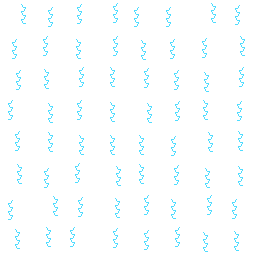
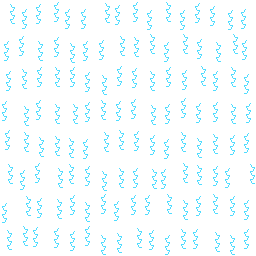
feat(patrones): brillos visibles en especies claras, rayos más densos y documentación

diff --git a/shared/scene/src/bake/patternFx.ts b/shared/scene/src/bake/patternFx.ts
@@ -90,6 +90,8 @@ export interface FxOptions {
   shiny?: boolean;
   /** Milisegundos desde que se muestra la mascota. */
   time: number;
+  /** Primario claro (`isLightPrimary`): los brillos sutiles van en azul, porque el blanco no se vería. */
+  light?: boolean;
   pixelSize?: number;
 }
 
@@ -105,28 +107,31 @@ type Px = [number, number, number, number];
 const NONE: Px = [0, 0, 0, 0];
 
 /** Color (0–255) y alfa (0–1) que el efecto del patrón pone sobre un píxel. */
-function patternPixel(fx: PatternFx, kind: number, u: number, v: number, lx: number, ly: number, t: number): Px {
+function patternPixel(fx: PatternFx, kind: number, u: number, v: number, lx: number, ly: number, t: number, light: boolean): Px {
   if (kind === FX_BODY) return NONE;
   const glint = kind === FX_GLINT;
+  // Color de los brillos: blanco sobre cuerpos oscuros, azul eléctrico sobre los claros.
+  const [sr, sg, sb] = light ? [70, 170, 255] : [255, 255, 255];
+  const boost = light ? 1.5 : 1;
   switch (fx) {
     // Superraro. Un brillo cruza las escamas en diagonal cada cinco segundos.
     case 'sheen': {
       const p = mod(t, 5200) / 1100;
       if (p > 1) return NONE;
       const d = Math.abs(lx + ly - (p * 150 - 12));
-      return d < 4 ? [255, 255, 255, glint ? 0.7 : 0.35] : NONE;
+      return d < 4 ? [sr, sg, sb, Math.min(1, (glint ? 0.7 : 0.35) * boost)] : NONE;
     }
     // Superraro. Cada vértice del cristal centellea por su cuenta, de uno en uno.
     case 'twinkle': {
       if (!glint) return NONE;
       const q = mod(t + hash(u, v, 1) * 3600, 3600);
       if (q > 360) return NONE;
-      return [255, 255, 255, 0.9 * (1 - Math.abs(q - 180) / 180)];
+      return [sr, sg, sb, 0.9 * (1 - Math.abs(q - 180) / 180)];
     }
     // Superraro. Un pulso de luz recorre las pistas del circuito.
     case 'flow': {
       const m = mod(u + v * 3 - t / 45, 48);
-      if (m < 5) return [190, 255, 255, (1 - m / 5) * (glint ? 0.9 : 0.6)];
+      if (m < 5) return light ? [40, 150, 255, Math.min(1, (1 - m / 5) * (glint ? 1 : 0.85))] : [190, 255, 255, (1 - m / 5) * (glint ? 0.9 : 0.6)];
       return NONE;
     }
     // Legendario. Las estrellas titilan con fuerza y la nebulosa va del azul al magenta.
@@ -134,25 +139,25 @@ function patternPixel(fx: PatternFx, kind: number, u: number, v: number, lx: num
       if (glint) {
         const period = 1400 + hash(u, v, 2) * 1200;
         const a = 0.5 + 0.5 * Math.sin((t / period) * Math.PI * 2 + hash(u, v, 3) * 6.28);
-        return [255, 255, 255, a];
+        return [sr, sg, sb, a];
       }
       const hue = 250 + 60 * Math.sin(t / 2600 + (u + v) / 20);
-      const [r, g, b] = hslToRgb(hue, 0.85, 0.66);
-      return [r, g, b, 0.5];
+      const [r, g, b] = hslToRgb(hue, 0.85, light ? 0.5 : 0.66);
+      return [r, g, b, light ? 0.7 : 0.5];
     }
     // Legendario. Cada rayo descarga por separado; su nube se enciende con él.
     case 'flash': {
-      const q = mod(t + hash(u >> 5, v >> 5, 4) * 2600, 2600);
+      const q = mod(t + hash(u >> 4, v >> 5, 4) * 2600, 2600);
       const power = q < 120 ? 1 : q < 240 ? 0 : q < 330 ? 0.8 : q < 800 ? 0.5 * (1 - (q - 330) / 470) : 0;
-      if (glint) return [255, 250, 190, Math.max(power, 0.3 + 0.1 * Math.sin(t / 300 + u))];
-      return power === 0 ? NONE : [235, 235, 255, power * 0.45];
+      if (glint) return light ? [255, 170, 0, Math.max(power, 0.5)] : [255, 250, 190, Math.max(power, 0.3 + 0.1 * Math.sin(t / 300 + u))];
+      return power === 0 ? NONE : light ? [90, 100, 170, power * 0.6] : [235, 235, 255, power * 0.45];
     }
     // Mítico. Las cintas cambian de color sin parar y una ola de luz sube por ellas.
     case 'aurora': {
       const hue = 150 + 70 * Math.sin(v * 0.12 + t / 700) + u * 2 + t / 30;
       const wave = 0.5 + 0.5 * Math.sin(v * 0.3 - t / 240);
       if (glint) return [255, 255, 255, 0.35 + 0.65 * wave];
-      const [r, g, b] = hslToRgb(mod(hue, 360), 0.9, 0.62 + 0.12 * wave);
+      const [r, g, b] = hslToRgb(mod(hue, 360), 0.9, (light ? 0.5 : 0.62) + 0.12 * wave);
       return [r, g, b, 0.6 + 0.3 * wave];
     }
   }
@@ -191,7 +196,7 @@ export function renderFx(map: ArrayLike<number>, sheetWidth: number, frame: FxFr
         if (map[m + 3] === 0) continue;
         const lx = (x / cell) | 0;
         const ly = (y / cell) | 0;
-        let [r, g, b, a] = fx ? patternPixel(fx, map[m + 2], map[m], map[m + 1], lx, ly, t) : NONE;
+        let [r, g, b, a] = fx ? patternPixel(fx, map[m + 2], map[m], map[m + 1], lx, ly, t, opts.light === true) : NONE;
         if (sweep <= 1) {
           // Barrido del shiny: una banda ancha irisada y otra fina detrás, sobre toda la silueta.
           const d = lx + ly - (sweep * 150 - 12);

diff --git a/shared/scene/src/pet/PetSprite.ts b/shared/scene/src/pet/PetSprite.ts
@@ -56,7 +56,7 @@ export class PetSprite extends Container {
   private readonly fxSprite = new Sprite();
   private readonly fxCanvas = document.createElement('canvas');
   private fxTexture: Texture | null = null;
-  private fx: { map: Uint8ClampedArray; width: number; fx: PatternFx | null; shiny: boolean } | null = null;
+  private fx: { map: Uint8ClampedArray; width: number; fx: PatternFx | null; shiny: boolean; light: boolean } | null = null;
   private fxTime = 0;
   private fxDrawn = '';
   private fxBuf: Uint8ClampedArray | undefined;
@@ -94,8 +94,8 @@ export class PetSprite extends Container {
    * Efectos animados de la hoja actual: `map` es su mapa de efectos (`bakeFxMap`). Sin efecto de
    * patrón ni shiny, o con movimiento reducido, la capa no se pinta.
    */
-  setFx(map: Uint8ClampedArray | null, width: number, fx: PatternFx | null, shiny: boolean): void {
-    this.fx = map && (fx || shiny) && !this.opts.reducedMotion ? { map, width, fx, shiny } : null;
+  setFx(map: Uint8ClampedArray | null, width: number, fx: PatternFx | null, shiny: boolean, light = false): void {
+    this.fx = map && (fx || shiny) && !this.opts.reducedMotion ? { map, width, fx, shiny, light } : null;
     this.fxSprite.visible = false;
     this.fxDrawn = '';
     this.drawFx();
@@ -111,7 +111,7 @@ export class PetSprite extends Container {
       this.fxCanvas.width = rect.w;
       this.fxCanvas.height = rect.h;
     }
-    this.fxBuf = renderFx(this.fx.map, this.fx.width, rect, { fx: this.fx.fx, shiny: this.fx.shiny, time: this.fxTime }, this.fxBuf);
+    this.fxBuf = renderFx(this.fx.map, this.fx.width, rect, { fx: this.fx.fx, shiny: this.fx.shiny, light: this.fx.light, time: this.fxTime }, this.fxBuf);
     this.fxCanvas.getContext('2d')!.putImageData(new ImageData(this.fxBuf as Uint8ClampedArray<ArrayBuffer>, rect.w, rect.h), 0, 0);
     if (!this.fxTexture) {
       this.fxTexture = Texture.from(this.fxCanvas);

diff --git a/desktop/src/lib/sprites.ts b/desktop/src/lib/sprites.ts
@@ -1,7 +1,7 @@
 // Sistema de Composición y Baking en Memoria para Sprites de PetAI
 // Conforme a la especificación técnica en docs/ART_PIPELINE.md
 
-import { bakePixels, bakeFxMap, renderFx, PATTERN_FX, type RgbaImage } from '@pockai/scene/bake';
+import { bakePixels, bakeFxMap, isLightPrimary, renderFx, PATTERN_FX, type RgbaImage } from '@pockai/scene/bake';
 import { AssetLoader } from './asset-loader';
 import { createMemoryAssetCache } from './asset-cache';
 import type { AnimLibrary } from './animation/AnimationController';
@@ -272,7 +272,7 @@ export async function bakePetSpriteSheet(
         fxCanvas.width = frame.sw;
         fxCanvas.height = frame.sh;
       }
-      fxBuf = renderFx(fxMap, width, { x: frame.sx, y: frame.sy, w: frame.sw, h: frame.sh }, { fx: fxKind, shiny, time }, fxBuf);
+      fxBuf = renderFx(fxMap, width, { x: frame.sx, y: frame.sy, w: frame.sw, h: frame.sh }, { fx: fxKind, shiny, time, light: isLightPrimary(palette.primary) }, fxBuf);
       fxCanvas.getContext('2d')!.putImageData(new ImageData(fxBuf as Uint8ClampedArray<ArrayBuffer>, frame.sw, frame.sh), 0, 0);
       return fxCanvas;
     },

diff --git a/shared/scene/src/PockaiScene.ts b/shared/scene/src/PockaiScene.ts
@@ -9,6 +9,7 @@ import { Application, Rectangle } from 'pixi.js';
 import { resolveAccessory, resolveSheet, PATTERNS } from './assets';
 import { bakeSheet, loadImage } from './bake/bakeTexture';
 import { PATTERN_FX } from './bake/patternFx';
+import { isLightPrimary } from './bake/bakePixels';
 import { ACCESSORY_SLOTS } from './bake/accessories';
 import type { AccessoryLayer } from './pet/PetSprite';
 import { PetSprite, FRAME } from './pet/PetSprite';
@@ -251,7 +252,7 @@ export class PockaiScene {
       this.pet.setSheet(canvas, sheet.anim);
       // El huevo no lleva efectos: ni patrón ni brillo de shiny.
       const egg = state.stage === 'egg';
-      this.pet.setFx(egg ? null : fxMap, width, (state.pattern && PATTERN_FX[state.pattern]) || null, !egg && state.shiny === true);
+      this.pet.setFx(egg ? null : fxMap, width, (state.pattern && PATTERN_FX[state.pattern]) || null, !egg && state.shiny === true, isLightPrimary(state.palette.primary));
       this.pet.setAccessories(layers, sheet.anchors);
       this.layout();
       this.emit({ type: 'petLoaded', species: key.split('/')[0], stage: state.stage });

diff --git a/shared/scene/src/bake/bakePixels.ts b/shared/scene/src/bake/bakePixels.ts
@@ -77,6 +77,12 @@ export function resolveBakeColors(params: BakeParams): ResolvedColors {
 /** Por debajo de esta luminancia del primario, el patrón aclara; por encima, oscurece. */
 const PATTERN_LIGHT_BELOW = 150;
 
+/** ¿Es claro el primario? En ese caso el patrón oscurece y los efectos brillan en azul, no en blanco. */
+export function isLightPrimary(hex: string): boolean {
+  const [r, g, b] = hexToRgb(hex || '#E25822');
+  return 0.299 * r + 0.587 * g + 0.114 * b >= PATTERN_LIGHT_BELOW;
+}
+
 /** Color de una marca de patrón sobre `(r, g, b)`: un tono del mismo color, o un destello. */
 export function patternTone(r: number, g: number, b: number, lighten: boolean, glint: boolean, amount = 1): Rgb {
   let t: Rgb;

diff --git a/docs/PENDIENTES.md b/docs/PENDIENTES.md
@@ -127,8 +127,8 @@ Features sin UI (solo backend + API):
 | Escala de la sala | La sala se ajusta a la pantalla, así que ahí el pixel art no va a escala entera. |
 | Movimiento de la mascota | El aplastado al tocar y el flotar siguen siendo transformaciones continuas; la guía pide frames (`land`, `hit`) y pasos de 1 px. |
 | Muebles y salas | Siguen en SVG isométrico; conviven con Pockais en píxeles. |
-| Variante shiny | Sin rampa propia: usa una paleta fija en la eclosión. |
-| Patrones de piel | Rehechos como pixel art en la rejilla nativa y horneados como tono del color. Queda: el patrón va anclado al frame y no al cuerpo, así que se desliza un píxel cuando la pose se desplaza; en etapas con poco primario (Magmadillo, Leviatín, Primpulso e Yggdrito finales) apenas tiene sitio; y falta verlo en las apps (solo se ha comprobado horneando a archivo). |
+| Variante shiny | Tiene efecto propio (barrido irisado y destellos). La paleta sigue siendo una fija y dorada para todas las especies, puesta en la eclosión; `shared/assets/palettes.json` trae paletas shiny por elemento que no se usan. |
+| Patrones de piel | Doce patrones en dos familias, horneados como tono del color, con efecto animado en los de la Textura del Éter y brillo en los shiny. Queda: verlos en movimiento dentro de las apps (solo se han revisado en hojas de fotogramas); el patrón va anclado al frame y no al cuerpo, así que se desliza un píxel cuando la pose se desplaza; en etapas con poco primario (Magmadillo, Leviatín, Primpulso e Yggdrito finales) apenas tiene sitio; las miniaturas (`PetMiniAvatar`) no animan los efectos; la familia y el efecto no están en la tabla `Pattern` de la base, solo en `patterns.json`. |
 | **Ocho especies por debajo del objetivo** | El usuario rehízo con una IA de imagen las hojas de Livolt, Inktopus, Solarejo, Fénixel, Kirisol, Leviatín, Yggdrito y Primpulso, y ese es el nivel que quiere (`.claude/skills/pockai-architect/references/examples/`). Falta redibujarlas con el generador aplicando `design-lessons.md`. Lo más urgente: los tentáculos rectos del Inktopus (parece una araña), la proporción de muñeco de Solarejo y Kirisol, y la cara de cría en las etapas finales. Dos hojas objetivo cambian el concepto y hay que decidirlo antes: el Livolt sale como abeja (es una polilla) y el Kirisol final gana alas. |
 | Redibujo con el generador v2 | Las 15 especies usan ya el tercer color, las tramas, el plano lejano o el trazo interior. A fondo solo se han rehecho Livolt, Inktopus y Solarejo; el resto recibe mejoras sobre el dibujo que tenía. Las crías y casi todas las segundas etapas no cambian. |
 | Acento en iOS y web | El escritorio y Android pasan el `accent` de la paleta al horneado; iOS y la web no se han revisado. Sin él, el acento sale como el primario oscurecido. |

diff --git a/docs/LORE.md b/docs/LORE.md
@@ -51,11 +51,13 @@ La piel de un Pockai es el lienzo donde se dibuja su **visualSeed** (su **Firma 
 
 Si la rareza es del linaje, el **patrón es del individuo**. Cada patrón tiene su propia densidad, la **Huella del Éter**: lo hondo que estaba sumergido ese huevo concreto en el instante de cerrarse. Se decide aparte del linaje y con las mismas probabilidades, así que dos Ignisaurios son el mismo Eco Cotidiano y, aun así, uno puede llevar sobre el lomo una Aurora que casi nadie ha visto. El patrón es lo que hace único a un ejemplar dentro de su especie.
 
-**Patrones Básicos (Liso, Manchas, Rayas, Degradado):** Representan la **Mímesis Terrenal**. Un huevo que se cierra cerca de la superficie intenta imitar la naturaleza física que ve a través de la cámara o las fotos de su Custodio: el pelaje de los animales, las hojas o el horizonte. Son las Huellas más frecuentes (Normal y Raro).
+**Patrones Básicos (Liso, Manchas y Rayas; Degradado, Rosetas y Panal):** Representan la **Mímesis Terrenal**. Un huevo que se cierra cerca de la superficie intenta imitar la naturaleza física que ve a través de la cámara o las fotos de su Custodio: el pelaje de los animales, las hojas o el horizonte. Son las Huellas más frecuentes (Normal y Raro).
 
-**Patrones Superiores (Escamas, Cristal, Galaxia, Aurora):** Cuando el huevo se cierra en lo hondo, la piel deja de imitar el mundo físico y muestra la textura real del Éter Digital. Le puede ocurrir a cualquier linaje, también al más común. Son las Huellas escasas (de Super-Raro a Mítico):
+**Patrones Superiores (Escamas, Cristal y Circuito; Galaxia y Tormenta; Aurora):** Cuando el huevo se cierra en lo hondo, la piel deja de imitar el mundo físico y muestra la textura real del Éter Digital. Le puede ocurrir a cualquier linaje, también al más común. Son las Huellas escasas (de Super-Raro a Mítico): A diferencia de los básicos, estos patrones **están vivos**: se mueven sobre la piel, tanto más cuanto más honda es la Huella.
 
 - **Escamas (Placas de Datos):** Fragmentos de firewalls ancestrales y armaduras lógicas tejidas sobre su piel.
+- **Circuito (Trazas Vivas):** Las pistas por las que viajaba el código que lo formó, aún con corriente: un pulso de luz las recorre.
+- **Tormenta (Sobrecarga):** La tormenta eléctrica de un servidor al límite, atrapada bajo la piel. Sus rayos descargan cada pocos segundos.
 - **Cristal (Cuarzo Lógico):** Datos tan puros y ordenados que se han solidificado en estructuras geométricas translúcidas.
 - **Galaxia (Vacío Abisal):** Su piel es una ventana literal al espacio profundo entre servidores; dentro de su silueta titilan nodos lejanos de información.
 - **Aurora (Viento Solar):** Corrientes magnéticas vivas y ondas de banda ancha que fluyen en tiempo real sobre su lomo.

diff --git a/docs/ART_PIPELINE.md b/docs/ART_PIPELINE.md
@@ -37,7 +37,7 @@ shared/assets/
 │   ├── spots.png
 │   ├── scales.png
 │   ├── crystal.png
-│   └── galaxy.png
+│   └── galaxy.png   (uno por patrón de patterns.json, salvo el liso)
 └── palettes.json                   # Paletas curadas por elemento/rareza + variantes Shiny
 ```
 
@@ -139,7 +139,7 @@ Para componer un cuadro o la hoja de sprites completa:
    - **Giro de tono en la sombra**: al multiplicar por el gris de `base.png`, el color gira hacia el violeta y se satura en proporción a lo oscuro que sea ese gris (`shadeShift` en `shared/scene/src/bake/bakePixels.ts`). Solo se aplica cuando `base.png` es un gris; un `base.png` con color propio multiplica tal cual.
 2. **Proyección del Patrón**: `patterns/{patternId}.png` es pixel art en **píxeles nativos**: cada píxel del patrón cubre un píxel nativo del sprite (2×2 píxeles de hoja), desplazado por `(offsetX, offsetY)`. Solo actúa donde el canal `B` de `mask.png` lo permite (el primario; nunca el vientre, el acento ni los colores literales). No pinta blanco: un píxel blanco del patrón es una **marca de tono** del propio color (más clara si el primario es oscuro, más oscura si es claro) y un píxel de otro color es un **destello** casi blanco. No hay alfas intermedios; los degradados van con tramado. Los patrones se generan con `pnpm generate:patterns` (`scripts/sprites/pixel/patterns.mjs`). La escala y la rotación por semilla no se aplican: romperían la rejilla.
 3. **Sombreado y Lineart**: Se superpone `base.png`. Las sombras en escala de grises actúan en modo de fusión `Multiply`, oscureciendo el color y el patrón subyacente. Los contornos negros y los reflejos blancos de los ojos se dibujan en modo `Normal`.
-4. **Efecto Shiny (si `shiny == true`)**: Se aplica un shader con una banda diagonal blanca semitransparente que recorre la silueta (máscara canal A) cada 4 segundos, acompañado de un emisor de partículas de estrellas o chispas.
+4. **Efectos animados**: no se hornean. `bakeFxMap` guarda, para cada píxel de la silueta, en qué punto del patrón cae y si es marca de tono, destello o cuerpo liso; `renderFx` devuelve en cada paso (90 ms) una capa RGBA del frame visible que el cliente pinta encima. Cubre los seis efectos de los patrones de la Textura del Éter (`sheen`, `twinkle`, `flow`, `starfield`, `flash`, `aurora`) y el de la **variante shiny**: un barrido irisado cada 4 segundos y destellos en estrella sobre el cuerpo. Todo está en `shared/scene/src/bake/patternFx.ts`.
 
 ---
 

diff --git a/docs/GUIA_ARTISTICA.md b/docs/GUIA_ARTISTICA.md
@@ -262,7 +262,11 @@ Especies con arte: **Axolunar** (agua, `#38A3A5`), **Florabud** (planta, `#57CC9
 ### 7.3 Huevos y patrones
 
 - **Huevo:** relleno `#FDE047`, contorno `#1A1A1A` de 3 px, manchas `#F59E0B` al 60 %. El huevo agrietado añade una grieta en zigzag de 3 px.
-- **Patrones de piel:** los siete (motas, rayas, degradado, escamas, cristal, galaxia y aurora) son mosaicos de pixel art en `shared/assets/patterns/`, dibujados en píxeles nativos por `scripts/sprites/pixel/patterns.mjs`. Se hornean como un tono del color de la mascota, no en blanco, y solo sobre el primario. Los de más rareza añaden destellos.
+- **Patrones de piel:** doce, en dos familias (`shared/game-data/patterns.json`). Son mosaicos de pixel art en `shared/assets/patterns/`, dibujados en píxeles nativos por `scripts/sprites/pixel/patterns.mjs`, y se hornean como un tono del color de la mascota, no en blanco, y solo sobre el primario.
+  - **Mímesis Terrestre** (imitan la naturaleza; sin efecto): Liso, Manchas y Rayas (normales); Degradado, Rosetas y Panal (raros).
+  - **Textura del Éter** (llevan destellos y un efecto animado, más visible cuanto más raro): Escamas, Cristal y Circuito (superraros, muy sutil); Galaxia y Tormenta (legendarios, visible); Aurora (mítico, constante).
+- **Efectos animados:** `shared/scene/src/bake/patternFx.ts`, compartido por la escena y el escritorio. Van a unos 11 fotogramas por segundo y en píxeles nativos, para que se muevan como pixel art. Sobre un primario claro los brillos sutiles van en azul, porque el blanco no se vería. Con movimiento reducido no se pintan.
+- **Variante shiny (2 %):** además de su paleta, un barrido irisado cruza la silueta cada cuatro segundos y tres destellos en estrella se relevan sobre el cuerpo.
 - Cada patrón tiene su propia rareza (`shared/game-data/patterns.json`), que se tira por ejemplar y no depende de la rareza de la especie.
 - **Variación por mascota:** la semilla `visualSeed` decide el desplazamiento, la escala (0,85–1,15), el giro (±0,15 rad) y el tono (±8°). Nunca se colorea sobre la cara ni los ojos (canal B de la máscara).
 
